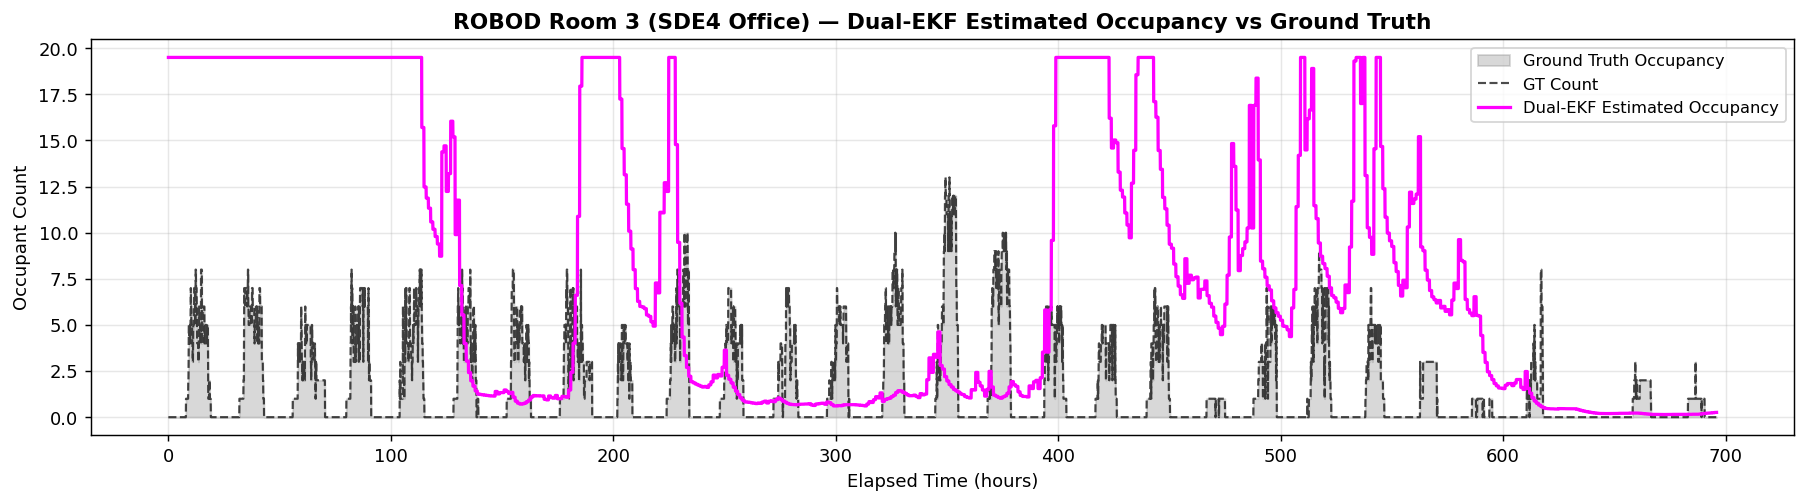
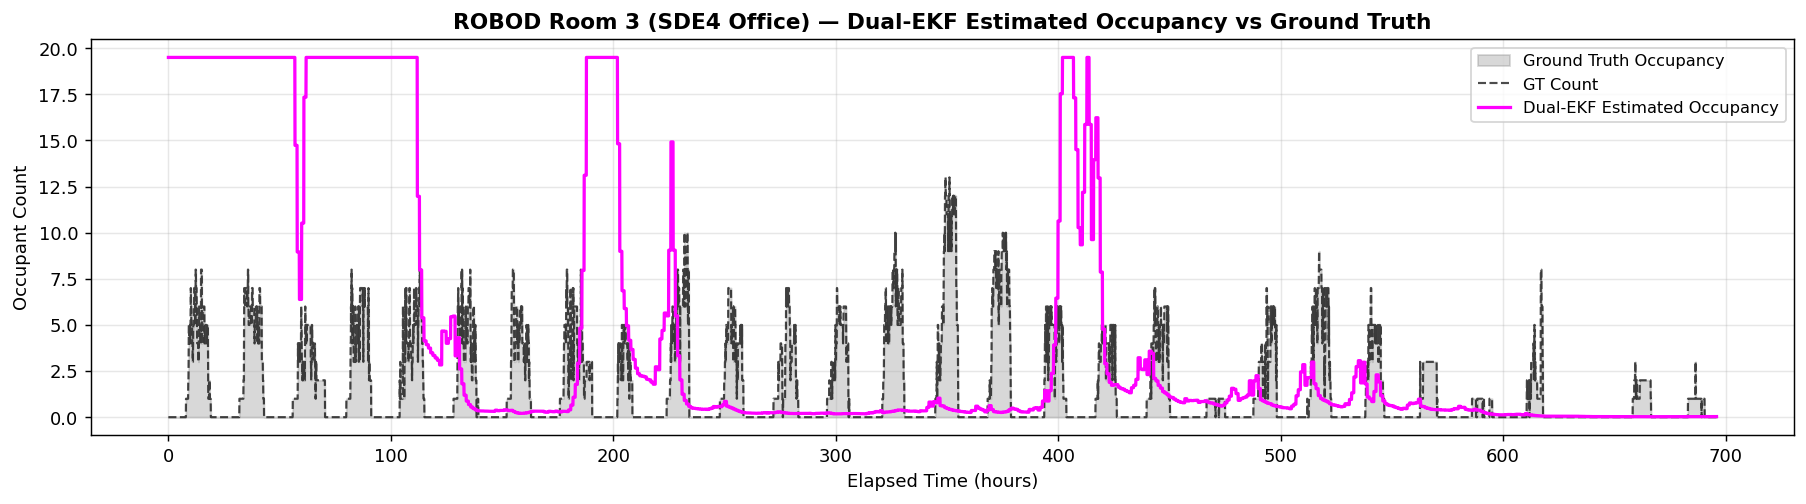
ROBOD dual EKF optimized

diff --git a/EKF/robod_ekf/Dual_EKF_ROBOD.py b/EKF/robod_ekf/Dual_EKF_ROBOD.py
@@ -229,9 +229,9 @@ def run_dual_ekf(df_in, spec):
     UA_hi    = UA_nom * 4.0
 
     bounds_p = {
-        "ao": (UA_lo / Cs_f,   UA_hi / Cs_f),   # α_o = UA/Cs_f
-        "bo": (1e-6,            2e-3),            # β_o = m_inf/M
-        "ge": (0.0,             0.5),             # γ_e [ppm·kg/s]
+        "ao": (UA_lo / Cs_f,   UA_hi / Cs_f),     # α_o = UA/Cs_f
+        "bo": (1e-6,            2e-3),              # β_o = m_inf/M
+        "ge": (0.0,             0.5),              # γ_e [ppm·kg/s], max ~91 people equiv
     }
 
     # ── EKF_PARAMS init ─────────────────────────────────────────────────────
@@ -249,13 +249,12 @@ def run_dual_ekf(df_in, spec):
         5e-3,     # xi_ge — occupancy on timescale of 30-60 min, NOT seconds
     ])
 
-    # Param filter measurement noise: LARGE = params change slowly, trust prior
-    # KEY: separate channels — Tz->ao, wz->bo, cz->ge
-    # R must be large relative to Q * window_duration to prevent divergence
+    # Param filter R: sets how much CO2 residual pulls gamma_e
+    # Smaller Rp[cz] = gamma_e reacts faster to CO2 errors
     Rp = np.diag([
-        5.0,      # Tz residual variance: sigma_Tz ~ 0.3C => var ~ 0.09, use 5 to slow
-        1e-4,     # wz residual variance (small — humidity signal drives bo)
-        1000.0,   # cz residual variance: large = slow ge adaptation
+        5.0,      # Tz residual variance
+        1e-4,     # wz residual variance
+        500.0,    # cz residual variance (tuned: not too aggressive)
     ])
 
     # ── EKF_STATES init ─────────────────────────────────────────────────────
@@ -263,15 +262,11 @@ def run_dual_ekf(df_in, spec):
     Ps = np.diag([0.25, 1e-6, 100.0])
 
     # State filter Q: model uncertainty (NOT adaptive — fixed)
-    Qs = np.diag([0.05, 1e-7, 5.0])    # per step (before ×DT)
+    # Qs[cz] must be large enough that CO2 state can drift with occupancy
+    Qs = np.diag([0.05, 1e-7, 50.0])   # cz: 50 ppm²/s model uncertainty
 
-    # CRITICAL DESIGN: State filter measures ONLY Tz and wz (NOT cz).
-    # CO2 is a predicted-only state driven entirely by gamma_e.
-    # The parameter filter is the ONLY place that assimilates CO2 measurement.
-    # This ensures cz residual is always nonzero and encodes occupancy signal.
-    H_s = np.array([[1, 0, 0],   # Tz measured
-                    [0, 1, 0]])   # wz measured — cz NOT measured in state filter
-    Rs  = np.diag([0.09, 4e-6])  # Tz: 0.3degC std, wz: 0.002 kg/kg std
+    H_s = np.eye(3)                              # full 3-state measurement
+    Rs  = np.diag([0.09, 4e-6, 10000.0])        # Tz: tight, wz: tight, cz: very loose
 
     # ── Storage ──────────────────────────────────────────────────────────────
     Tz_est  = np.zeros(N)
@@ -281,9 +276,12 @@ def run_dual_ekf(df_in, spec):
     bo_hist = np.zeros(N)
     ge_hist = np.zeros(N)
     innov_window  = []   # rolling innovation buffer for param update
-    cz_innov_buf  = []   # separate CO2 innovation buffer (raw meas - predicted cz)
 
-    # ── DUAL EKF MAIN LOOP ───────────────────────────────────────────────────
+    # ── DUAL EKF MAIN LOOP ────────────────────────────────────────────────────
+    # Architecture:
+    #   EKF_STATES: measures [Tz, wz] ONLY.  CO2 is free-running (predicted only).
+    #   EKF_PARAMS: receives [Tz_resid, wz_resid, cz_raw_error] every 60 min.
+    #   cz_raw_error = cz_measured - cz_predicted  (always nonzero → drives γ_e)
     for k in range(N):
         # Current param estimates (physical)
         ao_k, bo_k, ge_k = params_from_xi(xi_p, bounds_p)
@@ -292,40 +290,43 @@ def run_dual_ekf(df_in, spec):
         # Recirculation CO2 supply based on current cz estimate
         csa_k = F_RECIRC * S[2] + (1.0 - F_RECIRC) * co[k]
         U_k   = (To[k], wo[k], co[k], Tsa[k], wsa[k], csa_k, msa[k])
-        Z_k   = np.array([Tz_m[k], wz_m[k], cz_m[k]])
 
-        # ── EKF_STATES: Predict ───────────────────────────────────────────
-        S_pred = state_rk4(S, U_k, DT, theta_k)
-        J_s    = state_jacobian(S, U_k, theta_k)
-        Fs     = np.eye(3) + J_s * DT
+        # ── EKF_STATES: Predict (RK4) ────────────────────────────────────
+        S_pred  = state_rk4(S, U_k, DT, theta_k)
+        J_s     = state_jacobian(S, U_k, theta_k)
+        Fs      = np.eye(3) + J_s * DT
         Ps_pred = Fs @ Ps @ Fs.T + Qs * DT
         Ps_pred = 0.5 * (Ps_pred + Ps_pred.T)
 
-        # ── EKF_STATES: Update ────────────────────────────────────────────
-        y_k    = Z_k - S_pred          # innovation
-        S_S    = Ps_pred + Rs
-        K_s    = np.linalg.solve(S_S.T, Ps_pred.T).T
-        S      = S_pred + K_s @ y_k
-        Ps     = (np.eye(3) - K_s) @ Ps_pred
-        Ps     = 0.5 * (Ps + Ps.T)
+        # ── EKF_STATES: Update — H_s=eye(3), cz weakly measured (Rs[cz]=10000) ─
+        Z_3     = np.array([Tz_m[k], wz_m[k], cz_m[k]])   # 3-element measurement
+        # CO2 raw error BEFORE update (pure model error, drives gamma_e)
+        cz_err  = Z_3[2] - S_pred[2]
+        y_3     = Z_3 - H_s @ S_pred                       # 3-element innovation
+        S_inn   = H_s @ Ps_pred @ H_s.T + Rs               # 3×3 innovation covariance
+        K_s     = np.linalg.solve(S_inn.T, (Ps_pred @ H_s.T).T).T   # 3×3 Kalman gain
+        S       = S_pred + K_s @ y_3
+        Ps      = (np.eye(3) - K_s @ H_s) @ Ps_pred
+        Ps      = 0.5 * (Ps + Ps.T)
 
-        # Collect innovation for parameter update
-        innov_window.append(y_k)
+        # Build 3-channel innovation for parameter filter
+        # Use Tz/wz innovation from state update; cz uses pre-update raw error
+        innov_3 = np.array([y_3[0], y_3[1], cz_err])
+        innov_window.append(innov_3)
 
-        # ── EKF_PARAMS: Update (every PARAM_UPDATE_STEP steps) ───────────
+        # ── EKF_PARAMS: Update (every PARAM_UPDATE_STEP = 60 min) ────────
         if len(innov_window) >= PARAM_UPDATE_STEP:
-            # Average innovation over the window
-            innov_batch = np.mean(innov_window, axis=0)
+            innov_batch  = np.mean(innov_window, axis=0)
             innov_window = []
 
             S_avg = S.copy()
             U_avg = U_k
 
-            # Param filter "prediction" (random walk)
+            # Param random-walk prediction
             Pp = Pp + Qp * (DT * PARAM_UPDATE_STEP)
             Pp = 0.5 * (Pp + Pp.T)
 
-            # Param filter "update"
+            # Compute param Jacobian (block-diagonal)
             H_p = param_jacobian(xi_p, S_avg, U_avg, bounds_p, as_f, bs_f)
             S_p = H_p @ Pp @ H_p.T + Rp
             try:
@@ -334,11 +335,11 @@ def run_dual_ekf(df_in, spec):
                 K_p = np.zeros((3, 3))
 
             delta_xi = K_p @ innov_batch
-            # Hard-clip update step to prevent single-window divergence
-            delta_xi = np.clip(delta_xi, -0.5, 0.5)
-            xi_p = xi_p + delta_xi
-            Pp   = (np.eye(3) - K_p @ H_p) @ Pp
-            Pp   = 0.5 * (Pp + Pp.T)
+            delta_xi = np.clip(delta_xi, -0.5, 0.5)   # prevent single-window jumps
+            xi_p     = xi_p + delta_xi
+
+            Pp = (np.eye(3) - K_p @ H_p) @ Pp
+            Pp = 0.5 * (Pp + Pp.T)
             # Enforce positive definiteness
             eigvals = np.linalg.eigvalsh(Pp)
             if np.any(eigvals < 0):

diff --git a/EKF/robod_ekf/check_co2.py b/EKF/robod_ekf/check_co2.py
@@ -1,0 +1,31 @@
+import pandas as pd
+import numpy as np
+
+ROBOD_DIR = (r'd:\UNI\Sem 7\ME420 Mech Eng Research Project\SmartBEM-Studio'
+             r'\EKF\Datasets for EKF\ROBOD, Room level Occupancy and Building Operation Dataset')
+
+files = {
+    1: 'combined_Room1.csv',
+    2: 'combined_Room2.csv',
+    3: 'combined_Room3.csv',
+    4: 'combined_Room4.csv',
+    5: 'combined_Room5.csv',
+}
+
+print(f"{'Room':<6} {'Occ%':<7} {'CO2_occ':<10} {'CO2_unocc':<12} {'CO2_out':<10} {'Lift':<10} {'Signal?'}")
+print("-"*70)
+for room in [1, 2, 3, 4, 5]:
+    try:
+        df = pd.read_csv(f'{ROBOD_DIR}/{files[room]}').ffill().bfill()
+        occ = df['occupant_count [number]'].values
+        cz  = df['indoor_co2 [ppm]'].values
+        co  = df['outdoor_co2 [ppm]'].values
+        occ_mask   = occ > 0
+        unocc_mask = occ == 0
+        mean_occ   = cz[occ_mask].mean()   if occ_mask.sum()   > 0 else 0
+        mean_unocc = cz[unocc_mask].mean() if unocc_mask.sum() > 0 else 0
+        co2_lift   = mean_occ - mean_unocc
+        signal     = "YES" if co2_lift > 30 else "WEAK" if co2_lift > 10 else "NO"
+        print(f"Room {room:<2} {100*occ_mask.mean():<7.1f} {mean_occ:<10.1f} {mean_unocc:<12.1f} {co.mean():<10.1f} {co2_lift:<10.1f} {signal}")
+    except Exception as e:
+        print(f"Room {room}: ERROR {e}")
